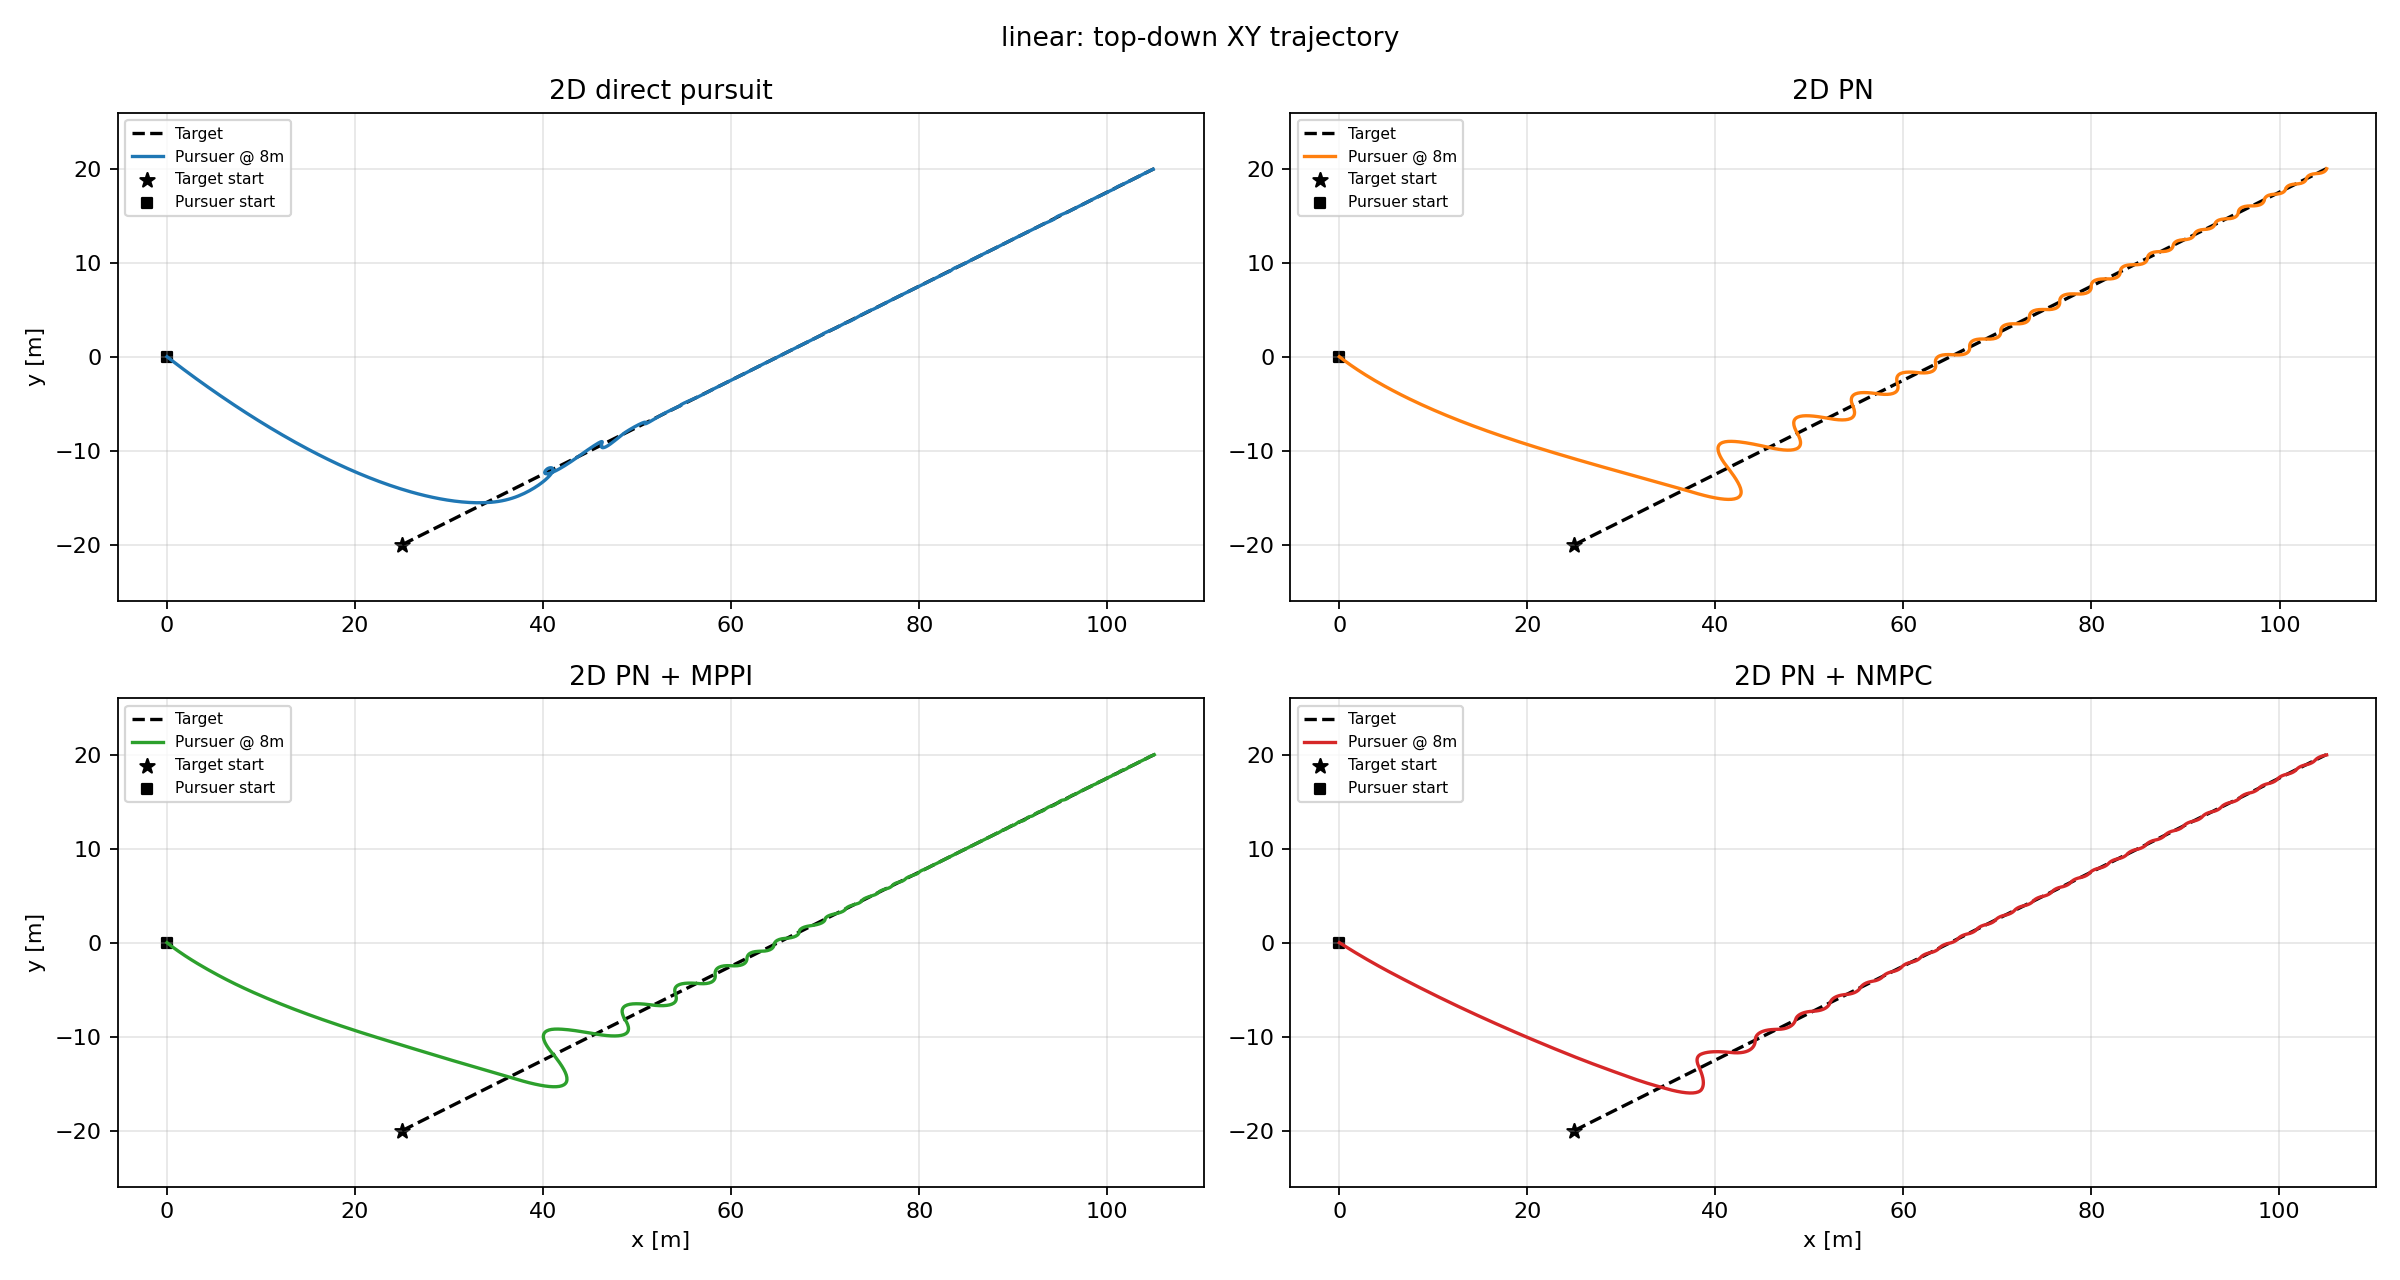
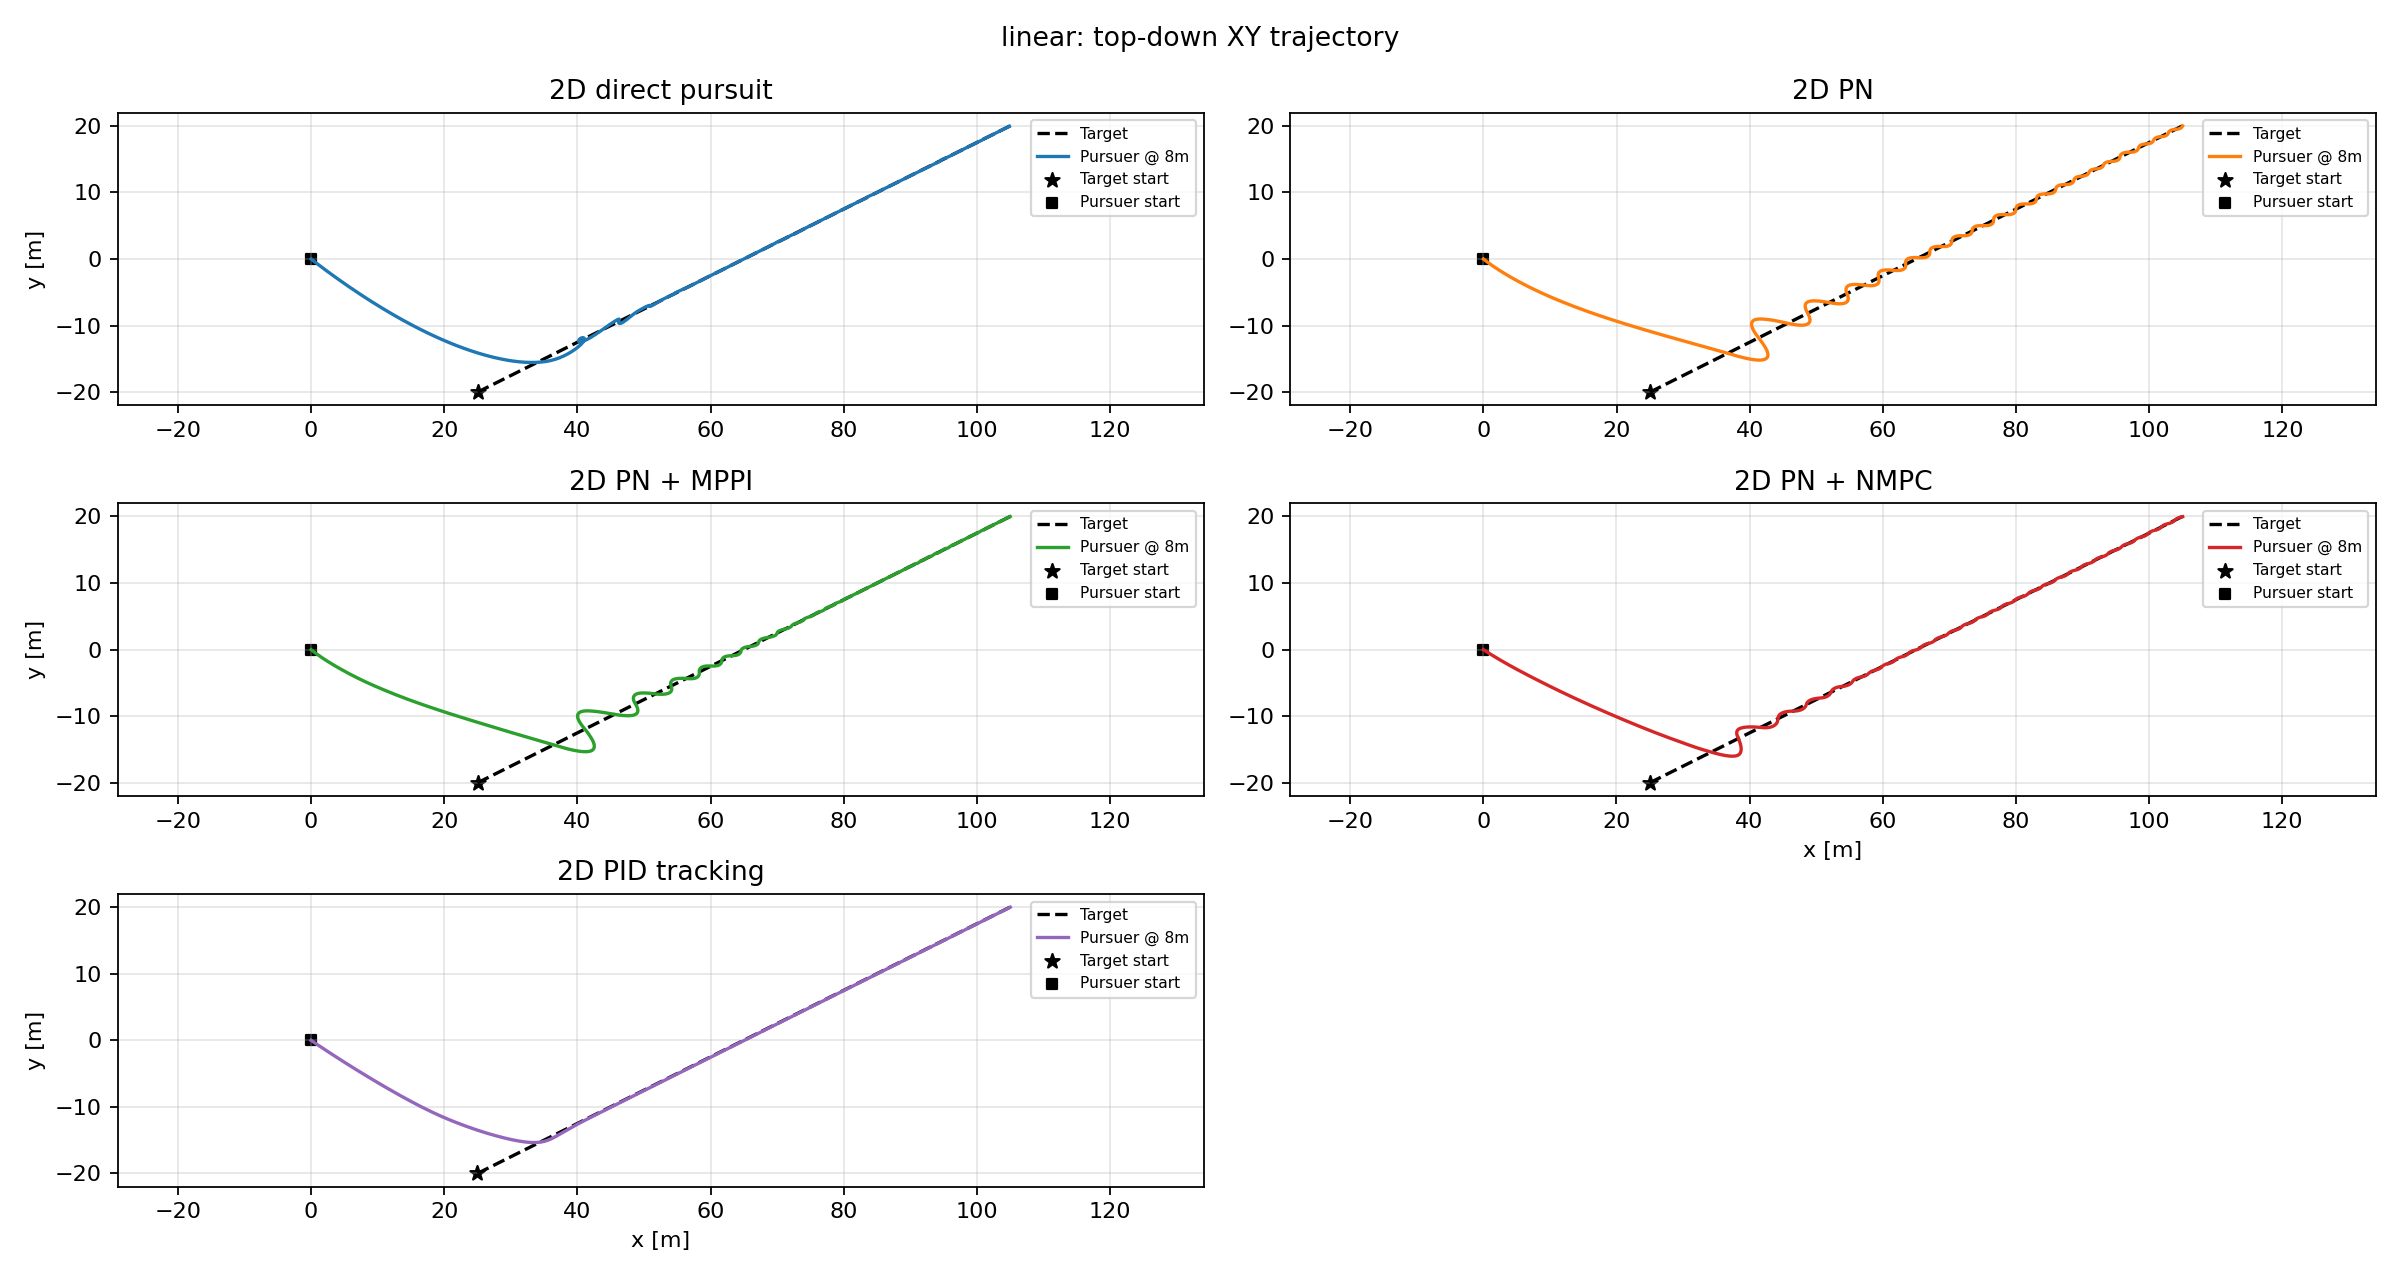
更新 7_2Dsimulation 文档：PID 原理、整定过程与五算法离线对比结果
- 算法说明新增 6.5 节：PID 控制律、参数表、网格整定方法与离线外推限制
- 10.1～10.4 节表格与结论补充 PID 行（三种场景捕获 4.90/4.25/4.60 s，
  能量与平均距离均为五者最低）
- 重新生成三种场景的离线轨迹图与指标图并替换 docs/assets
- README 补充 pid 算法说明与测试命令，修正算法数量表述

diff --git a/7_2Dsimulation/README.md b/7_2Dsimulation/README.md
@@ -11,7 +11,7 @@
 - `src/gazebosimulation2d/`：ROS2/PX4/Gazebo Offboard 接入包，含视觉检测、适配与相机记录节点。
 - `tools/vision_offline_eval.py`：YOLO 数据集离线评估（Recall、像素误差）。
 - `tools/vision_live_view.py`：实时查看相机画面与检测框（发布标注图供 rqt_image_view）。
-- `tests/`：纯 Python 相机几何、目标估计器与 EMPC 画面保持（FOV）惩罚测试。
+- `tests/`：纯 Python 相机几何、目标估计器、EMPC 画面保持（FOV）惩罚与 PID 导引测试。
 - `worlds/default.sdf`：视觉实验用无阴影 Gazebo 世界。
 - `outputs/`：默认仿真输出目录（生成物不入库）。
 - [算法说明](docs/2d_simulation_guidance_overview.md)：算法原理与已有结果。
@@ -449,6 +449,7 @@ worker 离线自检（不需要 ROS/Gazebo，坐标应与 `ultralytics-main/pred
 uv run python tests/test_camera_geometry.py
 uv run python tests/test_target_filter.py
 uv run python tests/test_fov_penalty.py
+uv run python tests/test_pid_guidance.py
 ```
 
 ROS 节点测试（假 worker，不需要 torch/GPU）：
@@ -462,7 +463,7 @@ colcon test --packages-select gazebosimulation2d && colcon test-result --verbose
 算法：
 
 ```text
-basic, pn, pn_mppi, pn_nmpc
+basic, pn, pn_mppi, pn_nmpc, pid
 ```
 
 场景：
@@ -472,6 +473,8 @@ stationary, linear, circle
 ```
 
 `pn_nmpc` 是候选枚举式预测控制（文档称 EMPC），代价函数除距离、控制、平滑和 PN 趋势项外还包含画面保持（FOV）惩罚：把预测目标投影到标称下视相机的图像平面，归一化偏移超过软边界后加重回中、接近边缘时惩罚最强。权重与相机参数在 `src/pythonsimulation2d/config.py` 的 `nmpc_w_fov`、`fov_*` 字段中，原理与 Gazebo 验证见 [算法说明](docs/2d_simulation_guidance_overview.md) 7.4.1 和 12.5 节。
+
+`pid` 是单环位置 PID 对照：对 XY 位置误差做比例-积分-微分（D 项取相对速度误差），直接输出加速度，积分按范数限幅抗饱和；参数 `pid_kp`、`pid_ki`、`pid_kd`、`pid_integral_limit` 在三种离线场景上网格整定，原理、整定方法与离线对比结果见 [算法说明](docs/2d_simulation_guidance_overview.md) 6.5 和 10 节。本轮只做离线对比，Gazebo/视觉闭环未复测。
 
 ## 记录后处理与绘图
 
@@ -503,7 +506,7 @@ vision_estimate.png              # 单算法记录且含视觉估计列时
 vision_estimate_<algorithm>.png  # 多算法场景目录且含视觉估计列时
 ```
 
-轨迹图由 `src/pythonsimulation2d/publication_plots.py` 绘制：衬线字体、等比例面板、四个算法共用一组
+轨迹图由 `src/pythonsimulation2d/publication_plots.py` 绘制：衬线字体、等比例面板、各算法共用一组
 坐标范围，尺寸按英寸排版（不受 `tight_layout` 拉伸）。其余面板沿用离线仿真的默认样式，两套样式互不影响。
 默认画完整记录，需要截断时用 `--trajectory-window-s`：
 
